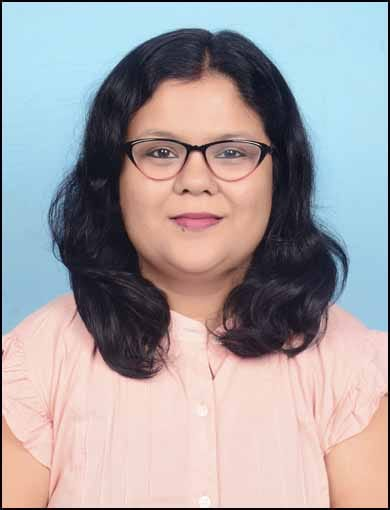
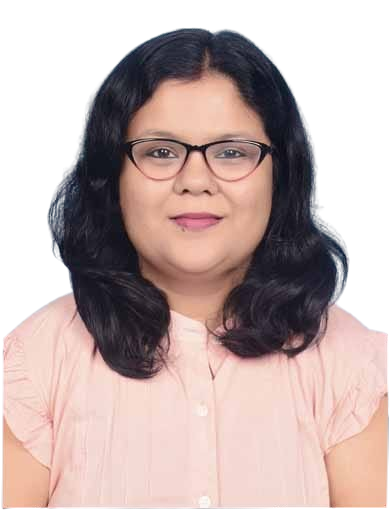
made some changes

diff --git a/src/app/Team.tsx b/src/app/Team.tsx
@@ -13,122 +13,150 @@ export default function Team() {
     {
       name: "Jaishree Gomes",
       role: "Founder",
-
-      image: p3
+      image: p3,
+      bio: "Visionary leader with a proven track record of establishing premier global trade exhibitions and fostering international business partnerships."
     },
     {
       name: "Sujoy Gomes",
       role: "Founder & Managing Director",
-
-      image: leader1
+      image: leader1,
+      bio: "Driving strategic growth and operational excellence, ensuring every event delivers massive commercial value and flawless execution."
     },
     {
       name: "Piyush Gomes",
       role: "Director",
-
-      image: p4
+      image: p4,
+      bio: "Spearheading corporate innovation and expanding the company's footprint across key international markets and emerging industries."
     },
     {
       name: "Bharati Mera",
       role: "Exhibition Head",
-
-      image: p2
+      image: p2,
+      bio: "Leading global exhibition strategies and execution with over a decade of industry expertise."
     },
     {
       name: "Nageshwari Tambe",
       role: "Finance Manager",
-
-      image: p5
+      image: p5,
+      bio: "Overseeing financial operations and strategic investments to drive sustainable company growth."
     },
     {
       name: "Manas Gomes",
       role: "Office Manager",
-
-      image: p6
+      image: p6,
+      bio: "Ensuring seamless day-to-day operations and fostering a collaborative corporate environment."
     }
   ];
 
+  const tier1 = team.slice(0, 3);
+  const tier2 = team.slice(3);
+
   return (
     <main className="min-h-screen bg-[#FCFAF5] text-[#0A1931] overflow-hidden font-sans selection:bg-[#D4AF37] selection:text-white">
-
-      <section className="bg-[#FCFAF5] pt-36 pb-16 px-6 font-sans relative z-10 overflow-hidden">
-        {/* 1. Page Header & Intro Description */}
-        <div className="max-w-4xl mx-auto text-center mb-24">
+      <section className="bg-[#FCFAF5] py-24 px-6 relative z-10">
+        
+        {/* Header Wrapper */}
+        <div className="max-w-4xl mx-auto text-center mb-20">
           <motion.h2
             initial={{ opacity: 0, y: 20 }}
             whileInView={{ opacity: 1, y: 0 }}
             viewport={{ once: true }}
-            className="text-5xl md:text-6xl font-bold text-yellow-600 mb-6"
+            className="text-5xl md:text-6xl font-serif font-bold text-[#0A1931] mb-6"
           >
-            Meet our team
+            Meet our global leadership.
           </motion.h2>
           <motion.p
             initial={{ opacity: 0, y: 20 }}
             whileInView={{ opacity: 1, y: 0 }}
             viewport={{ once: true }}
             transition={{ delay: 0.1 }}
-            className="text-lg md:text-xl text-gray-600 leading-relaxed"
+            className="text-lg text-gray-600 leading-relaxed"
           >
-            Behind every world-class exhibition is a team of visionary leaders and relentless execution experts. Get to know the minds driving SG ExpoConnect.
+            A dedicated team of industry veterans, innovators, and execution experts driving the future of international trade exhibitions.
           </motion.p>
         </div>
 
-        {/* 3. The Alternating Rows (Zig-Zag UI) */}
-        <div className="max-w-7xl mx-auto px-6 pb-32 flex flex-col gap-24">
-          {team.map((member, index) => {
-            const isOdd = index % 2 !== 0;
-            const maxWidthClass =
-              member.name === 'Manas Gomes' ? 'max-w-[350px]' :
-                member.name === 'Sujoy Gomes' ? 'max-w-[490px]' :
-                  member.name === 'Piyush Gomes' ? 'max-w-[390px]' :
-                    member.name === 'Nageshwari Tambe' ? 'max-w-[390px]' :
-                      member.name === 'Bharati Mera' ? 'max-w-[370px]' :
-                        'max-w-[380px]';
-
-            const imageClass =
-              member.name === 'Manas Gomes' ? 'w-full h-[500px] object-cover object-top block' :
-              member.name === 'Sujoy Gomes' ? 'w-full max-lg:h-[400px] max-lg:object-cover max-lg:object-top lg:h-auto block' :
-                'w-full h-auto block';
-
-            return (
-              <motion.div
-                key={member.name}
-                initial={{ opacity: 0, y: 40 }}
-                whileInView={{ opacity: 1, y: 0 }}
-                viewport={{ once: true, margin: "-100px" }}
-                transition={{ duration: 0.7, ease: [0.16, 1, 0.3, 1] }}
-                className="grid grid-cols-1 lg:grid-cols-2 gap-12 lg:gap-20 items-center"
-              >
-
-                {/* Image Container */}
-                <div className={`relative w-full ${maxWidthClass} mx-auto rounded-[2rem] overflow-hidden shadow-xl ${isOdd ? 'lg:order-last' : ''}`}>
-                  <img
-                    src={member.image}
-                    alt={member.name}
-                    className={`${imageClass} hover:scale-105 transition-transform duration-700`}
-                  />
+        {/* Tier 1: Leadership Grid (Jaishree, Sujoy, Piyush) */}
+        <div className="max-w-7xl mx-auto grid grid-cols-1 md:grid-cols-2 lg:grid-cols-3 gap-8 mb-24">
+          {tier1.map((member, idx) => (
+            <motion.div
+              key={member.name}
+              initial={{ opacity: 0, y: 30 }}
+              whileInView={{ opacity: 1, y: 0 }}
+              viewport={{ once: true, margin: "-50px" }}
+              transition={{ duration: 0.5, delay: idx * 0.1 }}
+              className="bg-white rounded-[2rem] overflow-hidden shadow-sm hover:shadow-xl transition-all duration-300 border border-gray-100 flex flex-col group cursor-pointer"
+            >
+              <div className="w-full h-[340px] overflow-hidden relative bg-gray-100">
+                <img
+                  src={member.image}
+                  alt={member.name}
+                  className="w-full h-full object-cover object-top group-hover:scale-105 transition-transform duration-500"
+                />
+              </div>
+              <div className="p-8 flex flex-col flex-1 items-center text-center lg:items-start lg:text-left">
+                <p className="text-xs md:text-sm font-bold tracking-widest text-yellow-600 uppercase mb-2">
+                  {member.role}
+                </p>
+                <h3 className="text-2xl md:text-3xl font-serif font-bold text-[#0A1931] mb-4">
+                  {member.name}
+                </h3>
+                <p className="text-sm text-gray-600 leading-relaxed mb-6 flex-1">
+                  {member.bio}
+                </p>
+                <div className="mt-auto pt-4 border-t border-gray-100 w-full flex justify-center lg:justify-start">
+                  <span className="text-yellow-600 font-bold text-xs uppercase tracking-wider group-hover:text-[#0A1931] transition-colors">
+                    Connect on LinkedIn &rarr;
+                  </span>
                 </div>
-
-                {/* Text Container */}
-                <div className={`flex flex-col justify-center max-lg:items-center max-lg:text-center ${(member.name === "Manas Gomes" || member.name === "Bharati Mera")
-                  ? 'lg:order-first lg:items-end lg:text-right'
-                  : isOdd ? 'lg:order-first lg:pl-12 xl:pl-20' : 'lg:pr-12 xl:pr-20'
-                  }`}>
-                  <h3 className="text-yellow-600 text-lg md:text-2xl lg:text-xl xl:text-2xl font-bold tracking-widest uppercase mb-3">
-                    {member.role}
-                  </h3>
-                  <h4 className="text-3xl lg:text-4xl font-serif font-bold text-[#0A1931] mb-4 lg:mb-6">
-                    {member.name}
-                  </h4>
-                  <p className="text-base lg:text-lg text-gray-600 leading-relaxed max-lg:max-w-xl">
-                    {member.description}
-                  </p>
-                </div>
-
-              </motion.div>
-            );
-          })}
+              </div>
+            </motion.div>
+          ))}
         </div>
+
+        {/* Tier 2: Department Heads Grid */}
+        <div className="max-w-7xl mx-auto px-6 mb-12 text-center lg:text-left">
+          <h3 className="text-3xl font-serif font-bold text-[#0A1931] border-b border-gray-200 pb-4">
+            Department Heads
+          </h3>
+        </div>
+        <div className="max-w-7xl mx-auto grid grid-cols-1 sm:grid-cols-2 lg:grid-cols-3 gap-8 pb-16">
+          {tier2.map((member, idx) => (
+            <motion.div
+              key={member.name}
+              initial={{ opacity: 0, y: 30 }}
+              whileInView={{ opacity: 1, y: 0 }}
+              viewport={{ once: true, margin: "-50px" }}
+              transition={{ duration: 0.5, delay: idx * 0.1 }}
+              className="bg-white rounded-[2rem] overflow-hidden shadow-sm hover:shadow-xl transition-all duration-300 border border-gray-100 flex flex-col group cursor-pointer"
+            >
+              <div className="w-full h-[280px] overflow-hidden relative bg-gray-100">
+                <img
+                  src={member.image}
+                  alt={member.name}
+                  className="w-full h-full object-cover object-top group-hover:scale-105 transition-transform duration-500"
+                />
+              </div>
+              <div className="p-8 flex flex-col flex-1 items-center text-center lg:items-start lg:text-left">
+                <p className="text-xs md:text-sm font-bold tracking-widest text-yellow-600 uppercase mb-2">
+                  {member.role}
+                </p>
+                <h3 className="text-xl md:text-2xl font-serif font-bold text-[#0A1931] mb-4">
+                  {member.name}
+                </h3>
+                <p className="text-sm text-gray-600 leading-relaxed mb-6 flex-1">
+                  {member.bio}
+                </p>
+                <div className="mt-auto pt-4 border-t border-gray-100 w-full flex justify-center lg:justify-start">
+                  <span className="text-yellow-600 font-bold text-xs uppercase tracking-wider group-hover:text-[#0A1931] transition-colors">
+                    Connect on LinkedIn &rarr;
+                  </span>
+                </div>
+              </div>
+            </motion.div>
+          ))}
+        </div>
+
       </section>
 
       <Footer />

diff --git a/src/app/components/Contact.tsx b/src/app/components/Contact.tsx
@@ -14,7 +14,7 @@ const benefits = [
 
 export default function Contact() {
   const [submitted, setSubmitted] = useState(false);
-  const [form, setForm] = useState({ name: '', email: '', company: '', message: '' });
+  const [form, setForm] = useState({ name: '', email: '', phone: '', company: '', message: '' });
 
   const handleChange = (e: React.ChangeEvent<HTMLInputElement | HTMLTextAreaElement>) => {
     setForm({ ...form, [e.target.name]: e.target.value });
@@ -124,6 +124,21 @@ export default function Contact() {
                     value={form.email}
                     onChange={handleChange}
                     placeholder="Email address"
+                    className="w-full px-4 py-3 rounded-xl border border-gray-200 bg-[#FCFAF5] text-[#0A1931] text-sm placeholder-gray-400 focus:outline-none focus:border-yellow-500 focus:ring-2 focus:ring-yellow-500/10 transition-all"
+                  />
+                </div>
+
+                <div className="flex flex-col gap-1.5">
+                  <label className="text-sm font-semibold text-[#0A1931]">
+                    Phone Number <span className="text-yellow-600">*</span>
+                  </label>
+                  <input
+                    name="phone"
+                    type="tel"
+                    required
+                    value={form.phone}
+                    onChange={handleChange}
+                    placeholder="Phone number"
                     className="w-full px-4 py-3 rounded-xl border border-gray-200 bg-[#FCFAF5] text-[#0A1931] text-sm placeholder-gray-400 focus:outline-none focus:border-yellow-500 focus:ring-2 focus:ring-yellow-500/10 transition-all"
                   />
                 </div>

diff --git a/src/app/components/MeetTheTeam.tsx b/src/app/components/MeetTheTeam.tsx
@@ -20,11 +20,13 @@ export default function MeetTheTeam() {
 
   const renderCard = (member: any, idx: number) => (
     <div key={idx} className="relative h-[450px] w-full rounded-3xl overflow-hidden group shadow-lg">
-      <img
-        src={member.image}
-        alt={member.name}
-        className={`absolute inset-0 w-full h-full object-cover ${member.position} group-hover:scale-105 transition-transform duration-700`}
-      />
+      <div className="absolute inset-0 w-full h-full transition-transform duration-700 group-hover:scale-105">
+        <img
+          src={member.image}
+          alt={member.name}
+          className={`w-full h-full object-cover ${member.position} ${member.name === 'Piyush Gomes' ? 'scale-125' : ''}`}
+        />
+      </div>
       <div className="absolute inset-0 bg-gradient-to-t from-[#0A1931] via-[#0A1931]/60 to-transparent opacity-90 h-1/2 mt-auto" />
       <div className="absolute bottom-0 left-0 w-full p-6 flex flex-col justify-end z-20">
         <h3 className="text-white font-extrabold text-4xl mb-2 drop-shadow-md">{member.name}</h3>

diff --git a/src/app/components/PremiumGallery.tsx b/src/app/components/PremiumGallery.tsx
@@ -84,10 +84,6 @@ export default function PremiumGallery(props: any) {
                   {service.description}
                 </p>
 
-                {/* Action Link */}
-                <span className="text-yellow-600 font-bold text-sm tracking-wide uppercase flex items-center group-hover:text-[#0A1931] transition-colors">
-                  Learn More <ArrowRight className="w-4 h-4 ml-2" />
-                </span>
               </div>
 
             </motion.div>

diff --git a/src/app/components/Footer.tsx b/src/app/components/Footer.tsx
@@ -89,7 +89,7 @@ export default function Footer() {
             </p>
 
             <a href="tel:09594546757" className="text-yellow-600 hover:text-yellow-500 transition-colors">
-              +91 09594546757
+              +91 9594546757
             </a>
           </div>
         </div>